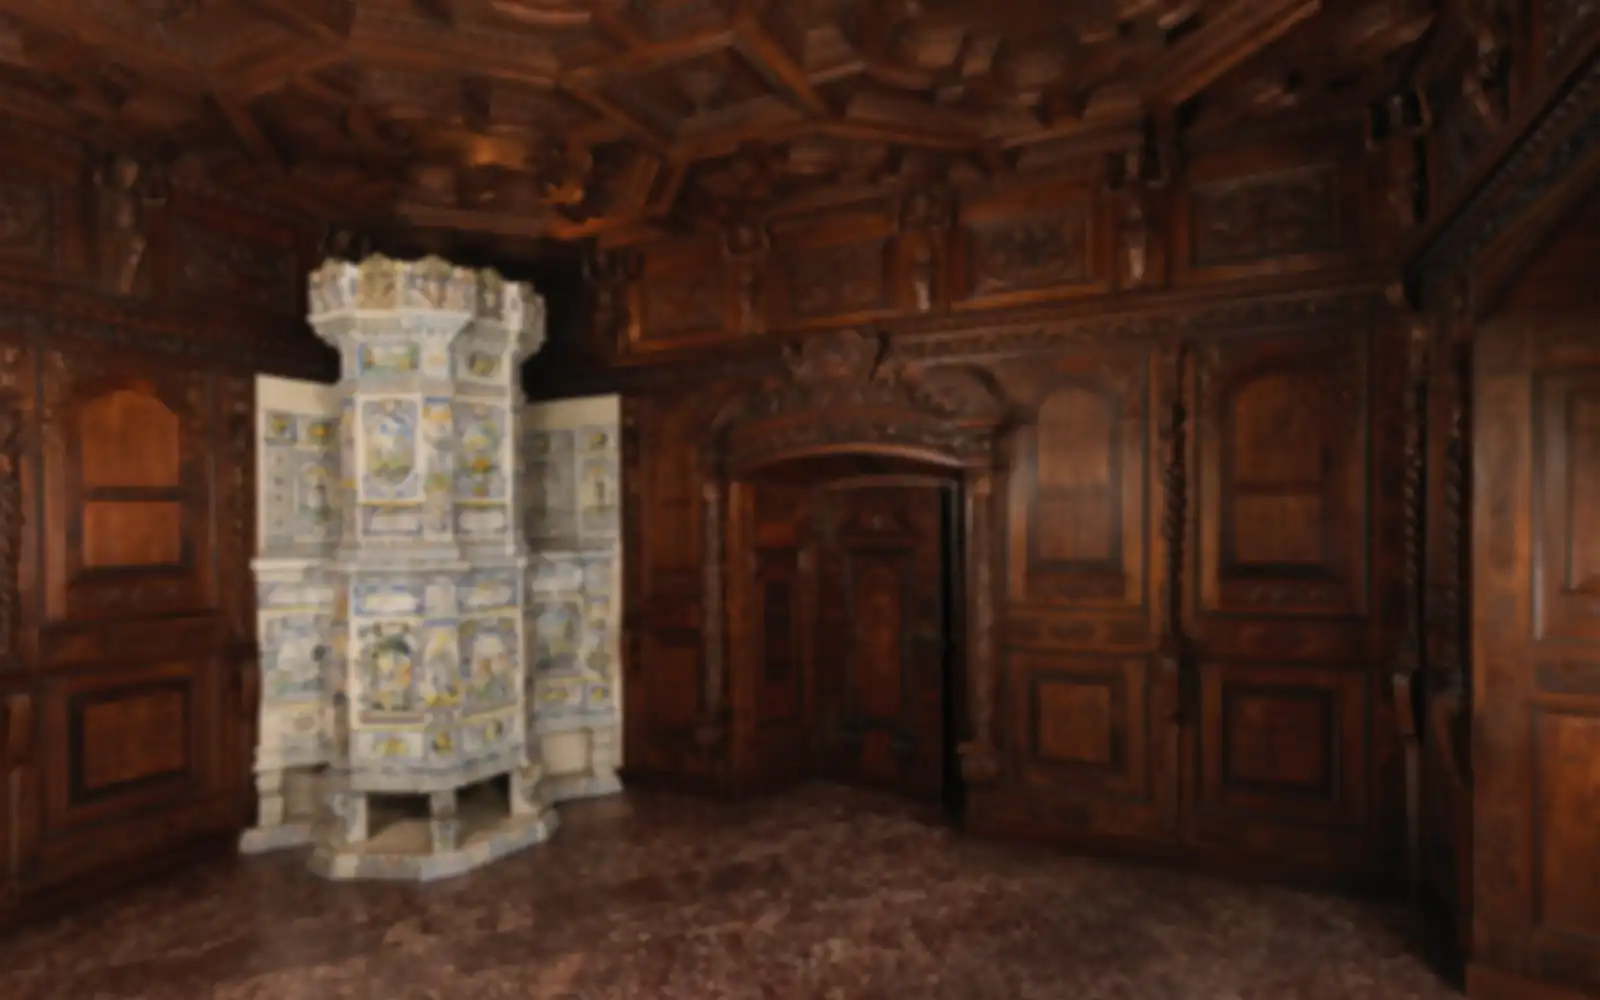
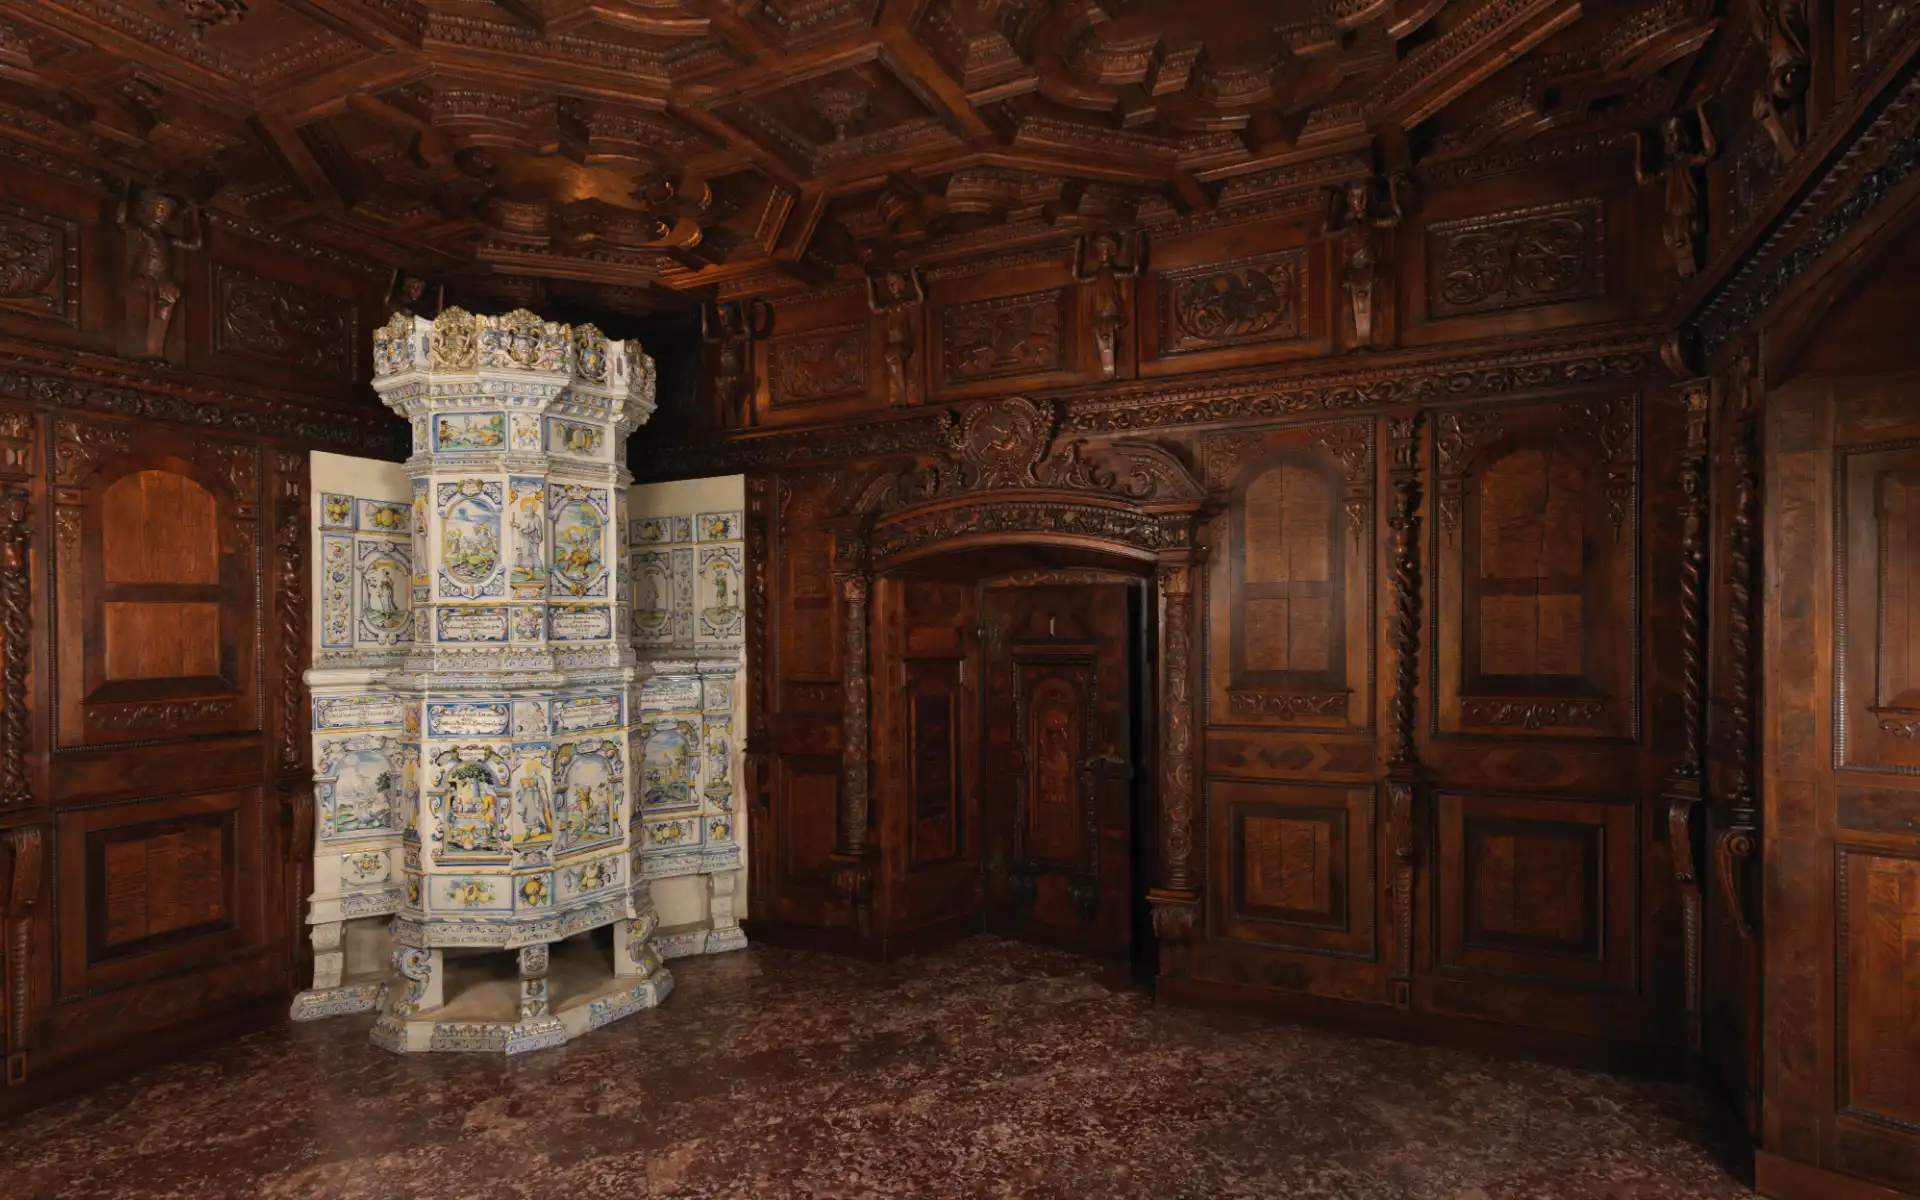
Rooms: sharper, higher-resolution room photos
Andrew asked for more resolution and detail. Same four public-domain
photographs, re-rendered at 1920x1200 (desktop) and 750x1625 (phone) with
0.6-0.7 px blur instead of 2-2.5 px; the reading room from the Library of
Congress's 2600 px copy. Desktop 132-206 KB, phone 56-92 KB. Only image
files change. Nothing generated.

diff --git a/HANDOFF.md b/HANDOFF.md
@@ -4,6 +4,7 @@
 Live since 18 November 2026 at https://halfaline.andrewcao.org/ (moved from https://acao-boop.github.io/half-a-line/, which forwards) (tag `published`), and hung third on the andrewcao.org wall (acao-boop/enoch#54). Day 1 is 18 November 2026 (Pride and Prejudice). 60 lines run to 16 January 2027.
 
 ## Last change
+- 2026-11-20 (Andrew: "a little bit higher res … more detailing"; branch `claude/aesthetic-rooms`, not merged or published): the four room photos re-rendered sharper and larger (1920 × 1200 desktop, 750 × 1625 phone, blur 0.6–0.7 px instead of 2–2.5), the reading room from a 2600-px copy. Same photographs and licences, nothing generated. Desktop 132–206 KB, phone 56–92 KB (was 36–65 and 19–31). Only `site/rooms/*.webp` changed, so no `?v=` bump is needed for code; the photos keep their names, so browsers that cached the old ones may show them until their cache expires (GitHub Pages caches 10 minutes). Checked: before/after at 1440 px in all four rooms (`docs/mockups/shots/j-sharper-rooms.jpg`); text sits on solid plates, so contrast is unchanged.
 - 2026-11-19 (Andrew picked four real rooms; merged and published 19 Nov, tag `published` at 4d706f5, live files match): the five colour sets become rooms, each a public-domain photograph of a real room behind the card, softly blurred (`site/rooms/`, desktop 36–65 KB, phone 19–31 KB): Reading room (Library of Congress Main Reading Room, the default), Renaissance study (Gubbio studiolo), Alpine cabin (Flims Room), Timber house (Hart House room), plus High contrast. Each room styles the clue pieces (leather book spines; marble plaques with a gilt frame; pine boards with a tack). Dark mode dims the photo. Header and footer sit on solid plates. Saved as `room` in `half-a-line-prefs`; old colour sets map across (Ink → Reading room, Sepia → Renaissance study, Sage → Alpine cabin, Rose → Timber house, High contrast stays); `half-a-line-v3` untouched. Credits: one paragraph on About linking each source; full list in `docs/mockups/art/CREDITS.md`. Assets at v=6 (share image unchanged). Checked: contrast 578 pairs ≥ 4.5:1 (`node docs/mockups/check-contrast.js`); `node tools/check-lines.js` 0 problems; locally at 1280 and 375 px in every room, light and dark, Match my device, arrow keys in the room picker with focus ring, old Sage choice → Alpine cabin, first visit → Reading room, no console errors; reduced motion (no new motion). Link check: Met pages open; the LoC page shows a bot check to scripts, so look at https://www.loc.gov/pictures/item/2011646837/ by hand.
 - 2026-11-19 (Andrew: complete the line audit, word for word, twice, cut niche lines, then publish): every line now matches a named public-domain edition exactly and a second text word for word (report: `docs/line-check-2026-11-19.md`). 13 wording/punctuation fixes, 9 fact fixes in notes/years/speakers, and six niche lines replaced on the same days (37 Hope is the thing with feathers, 46 Invictus, 48 Sympathy, 51 Gray's Elegy, 55 Battle Hymn of the Republic, 57 Oliver Twist). Two titles added to the list (Sympathy, Battle Hymn of the Republic). Rule from now on: punctuation at the end of an excerpt stays as printed. Assets at v=5. Review sheet updated to match (27 rows marked "Applied 19 Nov").
 - 2026-11-19 (Andrew chose "colours + easy mode"; not published): a Settings page (nav) with five colour sets (Ink, the default; Sepia; Sage; Rose; High contrast), each with light and dark versions, plus Light / Dark / Match my device. Easy mode swaps the title box for six choices (today's work plus five other answers close in date, fixed per day; the right answer is spread evenly across the six spots). The switch is under the guess box ("Too hard? Pick from six titles" / "Type the title instead") and in Settings; a line solved by tapping a choice shares as "(easy mode)". Settings use their own storage key `half-a-line-prefs`, so stats are untouched. Colours are applied before the page paints (small script in the head of index.html and 404.html). Assets at v=4. Also fixed the share-image `?v=` that an earlier version bump had changed by mistake (back to 20261118b, matching live): bump only the asset `?v=` numbers. Checked locally: desktop and 375 px, light and dark, all five colour sets meet 4.5:1 contrast for small text, a wrong choice strikes through and announces, the nav fits on one line at 375 px. Published 19 Nov with the overnight fixes below (Andrew: "Yes, publish all"); live files match (SHA-256), tag `published` at 5009023.

diff --git a/docs/mockups/art/CREDITS.md b/docs/mockups/art/CREDITS.md
@@ -48,3 +48,6 @@ Each is the photograph cropped and softly blurred (2–2.5 px) in `photo-maker.h
 | Timber house: Room from the Hart House, Ipswich, Massachusetts, 1680 (`hart`) | https://www.metmuseum.org/art/collection/search/6887 | Met, CC0 |
 | Tested, not chosen: Dining room from Lansdowne House, 1766–69 (`lansdowne`) | https://www.metmuseum.org/art/collection/search/196910 | Met, CC0 |
 | Tested, not chosen: Damascus Room, 1707 (`damascus`) | https://www.metmuseum.org/art/collection/search/452102 | Met, CC0 |
+
+## Site rooms, sharper version (20 November 2026 build, `site/rooms/`)
+The four live rooms were re-rendered at 1920 × 1200 (desktop) and 750 × 1625 (phone) with light blur (0.6–0.7 px instead of 2–2.5 px), so the rooms show their detail. The reading room now uses the Library of Congress's 2600-pixel copy of the same Highsmith photograph (IIIF service for highsm 11604). Same photographs, same licences as above; nothing generated. Desktop 132–206 KB, phone 56–92 KB.
